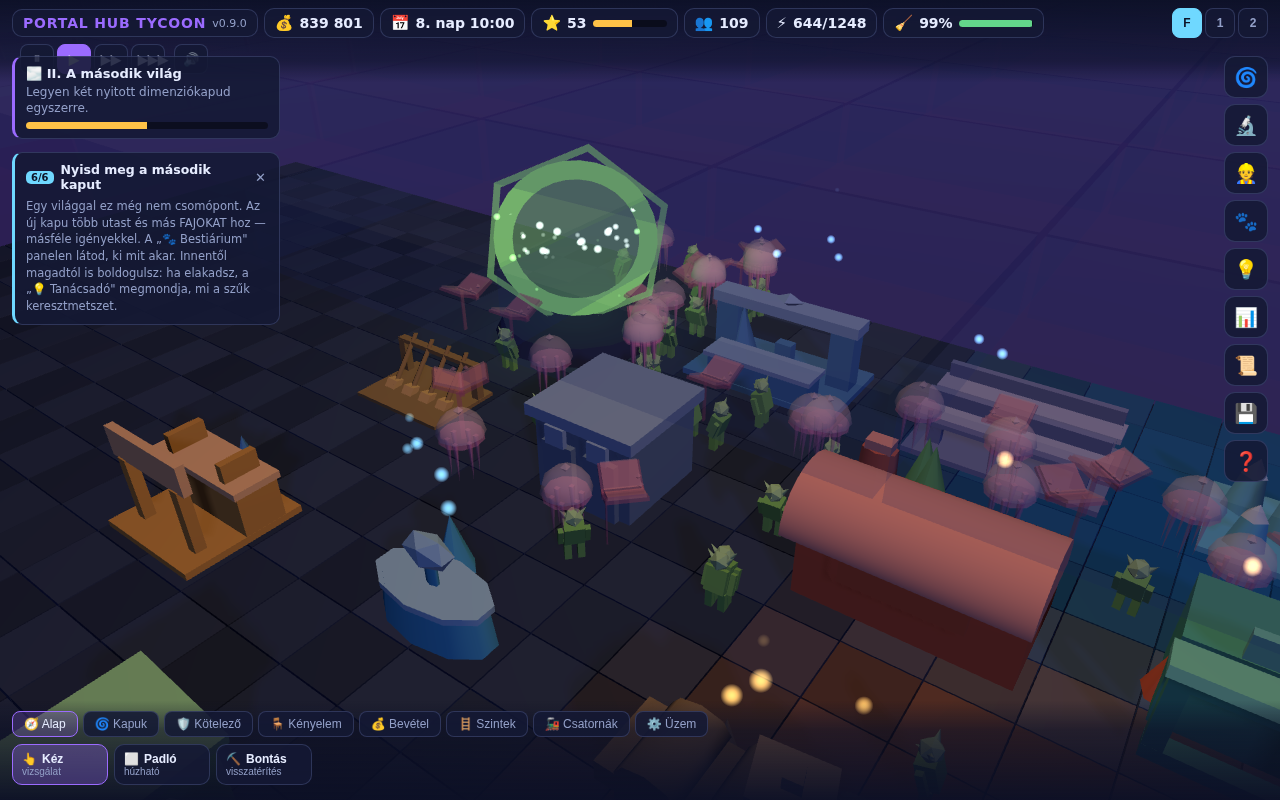
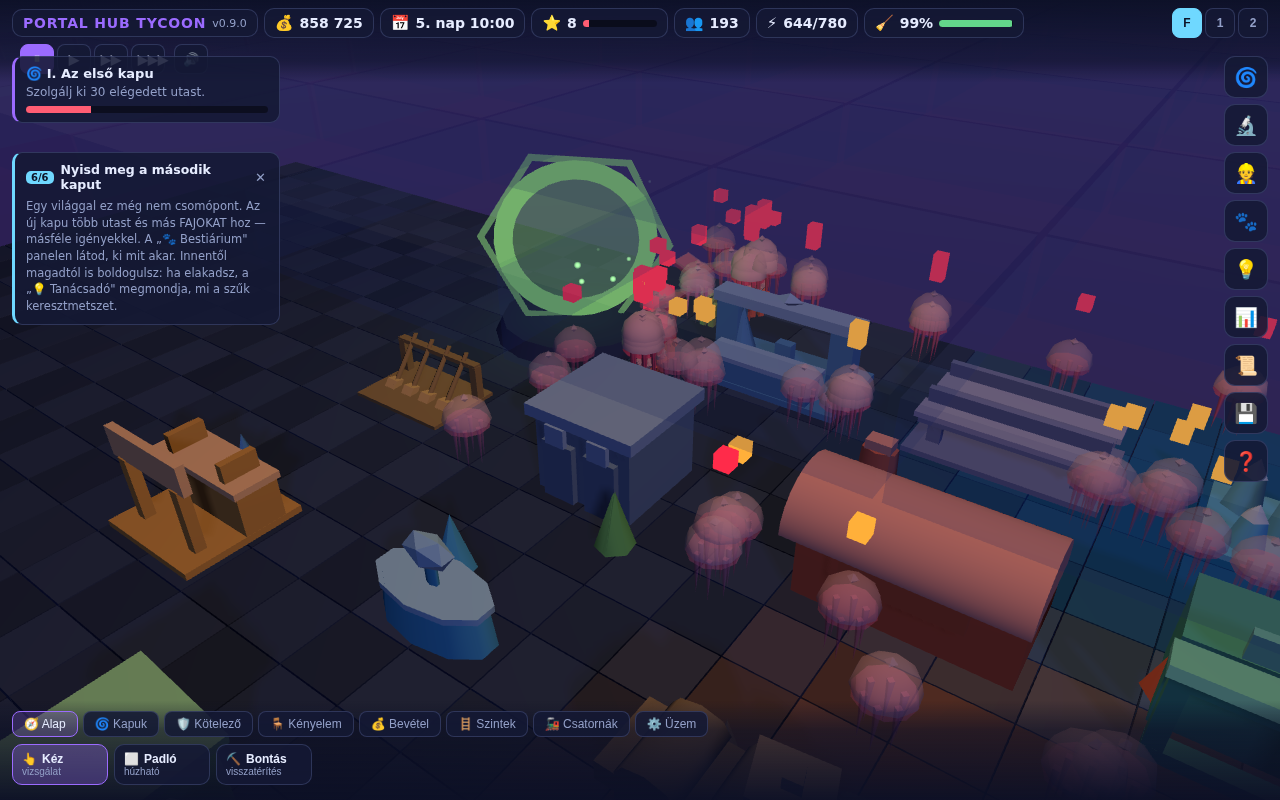
látvány: a csillagok végre világítanak, az ég valódi színt kap
A látvány-szonda képpont-mérése két RÉGI hibát fogott meg, amit objektum-
szintű ellenőrzéssel soha nem találtunk volna meg — mindkettő úgy nézett ki
a kódból, mintha működne:

  • Az ég-shaderből hiányzott a `#include <colorspace_fragment>`: a lineáris
    színt írta ki nyersen sRGB kimenetre, ezért volt az ég végig sokkal
    sötétebb a szándékoltnál. Örök éjszakában ez nem tűnt fel.
  • A CSILLAGOK SOHA NEM VILÁGÍTOTTAK. A köd 165-nél teljesen befed, a
    csillagmező 190-en áll — vagyis minden csillag pontosan a köd színét
    vette fel, ami sötétebb az ég felső sávjánál. A csillagok SÖTÉTÍTETTEK.
    `fog: false`, méret 1,1 → 3,2, darab 900 → 1500.

Emellett bekötve a `hatasok.aktivSzint` a szintváltásba: enélkül a fölső
emeletek kiszolgálás-jelei az aktív szint fölött lebegtek, elszakadva attól
az épülettől, ami kibocsátotta őket.

Mérve (latvany_szonda, mind zöld): éjfél→dél 31,3 → 50,7 képpont (+62 %),
csillagmező be/ki 35,87 → 37,09, kiemelés 101,07 → 111,96, 22 rajzolási
hívás 1400 lénnyel ÉS teli részecskekerettel, 0 NaN.

⚠ `npm run fps` MÉG NEM futott rá — a felhőben nincs GPU. Az iMac-en le kell
mérni: ez az ív óta a render gyökeresen megváltozott.

Claude-Session: https://claude.ai/code/session_016bTwSFdaEmxbpvs6caWmDz

diff --git a/portal/src/render/hatasok3d.js b/portal/src/render/hatasok3d.js
@@ -153,8 +153,12 @@ export class Hatasok3d {
     // repülnének — a hatás helyett egy rándulás látszana.
     const d = dt > 0.05 ? 0.05 : (dt > 0 ? dt : 0);
     this._kvota = KVOTA;
+    // Az `ido` (folytonos óra) egyelőre nem kell egyik hatásnak sem: a
+    // szikrák a saját életkorukból élnek, nem közös fázisból. Megtartjuk a
+    // felületben, mert a többi render-réteg `frissit(ido)`-t kap, és egy
+    // eltérő alakú metódus a hívóhelyen okozna hibát.
     this._lep(d);
-    this._figyel(d, ido);
+    this._figyel(d);
     this._feltolt();
   }
 
@@ -247,9 +251,9 @@ export class Hatasok3d {
   // mentés betöltésekor egyszerre robbanna ki több ezer kiszolgálás-jel —
   // pontosan az a „minden villog egyszerre" hatás, amitől a visszajelzés
   // használhatatlanná válik. Ugyanez véd a menet közbeni bekapcsolástól is.
-  _figyel(dt, ido) {
+  _figyel(dt) {
     this._dimeket();
-    this._epuleteket(dt, ido);
+    this._epuleteket(dt);
     this._esemenyeket();
     this._elsoKor = false;
   }
@@ -275,7 +279,7 @@ export class Hatasok3d {
     const a = new Float32Array(uj); a.set(this._epAkku); this._epAkku = a;
   }
 
-  _epuleteket(dt, ido) {
+  _epuleteket(dt) {
     const sim = this.sim;
     const lista = sim.epuletek;
     this._epuletKeret(lista.length);
@@ -291,7 +295,7 @@ export class Hatasok3d {
       const ky = ep.z * SZINT_MAGASSAG;
 
       if (ep.kod === 'portal') {
-        this._portalt(ep, kx, ky, kz, dt, ido, rnd);
+        this._portalt(ep, kx, ky, kz, dt, rnd);
         continue;
       }
 
@@ -321,7 +325,7 @@ export class Hatasok3d {
    * épp nem nézi senki. Az érkezés-villanás ehhez képest esemény: egy utas
    * KILÉPETT, és ezt a kapu előtti szikrakör mondja el.
    */
-  _portalt(ep, kx, ky, kz, dt, ido, rnd) {
+  _portalt(ep, kx, ky, kz, dt, rnd) {
     const di = ep.dimenzio;
     const all = di >= 0 ? this.sim.dimenziok[di] : null;
     const alap = di >= 0 ? DIMENZIOK[di].szin : 0x8f8fb0;

diff --git a/portal/src/fo.js b/portal/src/fo.js
@@ -98,6 +98,10 @@ async function indit() {
       aktivSzint = Math.max(0, Math.min(RACS_SZINT - 1, i | 0));
       allomas.szintet(aktivSzint);
       lenyek.aktivSzint = aktivSzint;
+      // A szikrák is a szellemszint logikáját követik: enélkül a fölső
+      // emeletek kiszolgálás-jelei az aktív szint FÖLÖTT lebegnének, elszakadva
+      // az épülettől, ami kibocsátotta őket.
+      hatasok.aktivSzint = aktivSzint;
       szinter.talajY = aktivSzint * SZINT_MAGASSAG;
       hud.szintJeloles(aktivSzint);
     },
